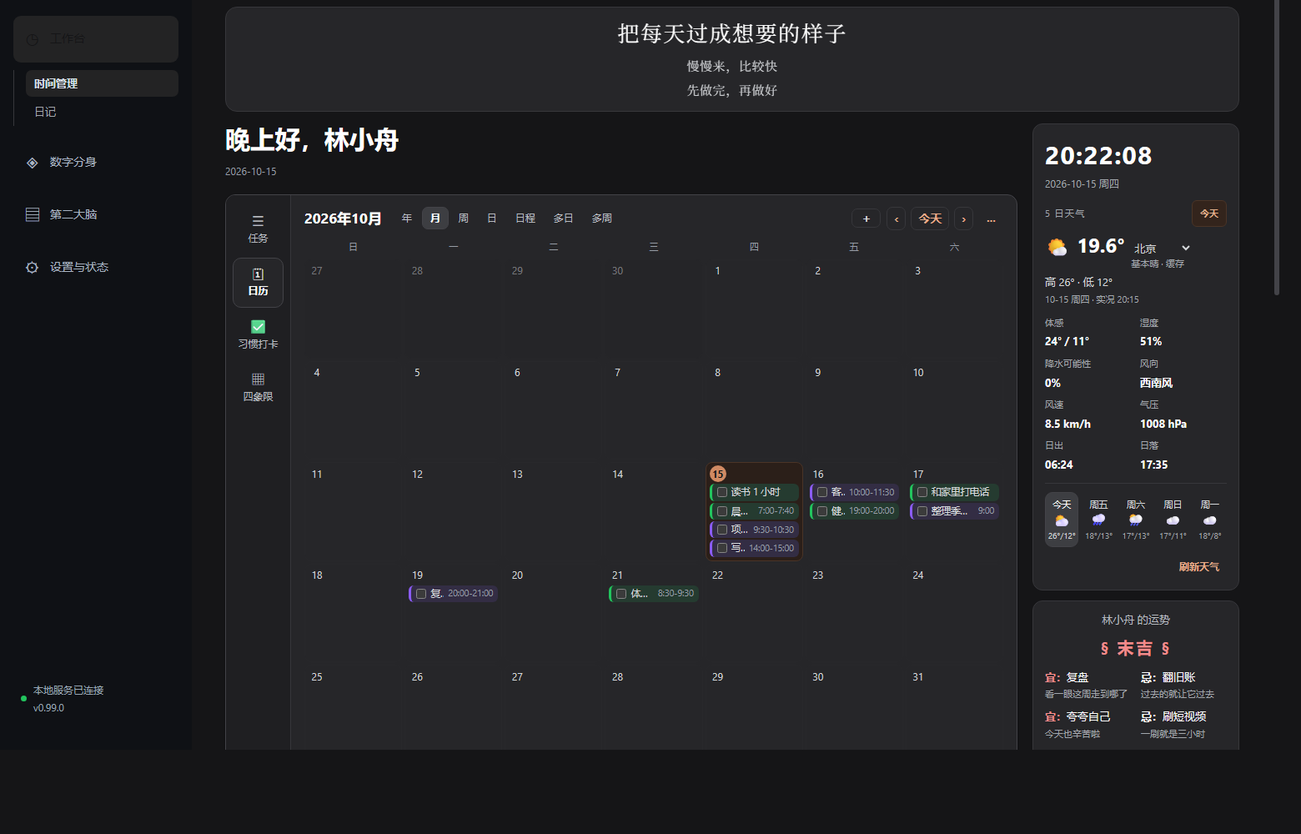
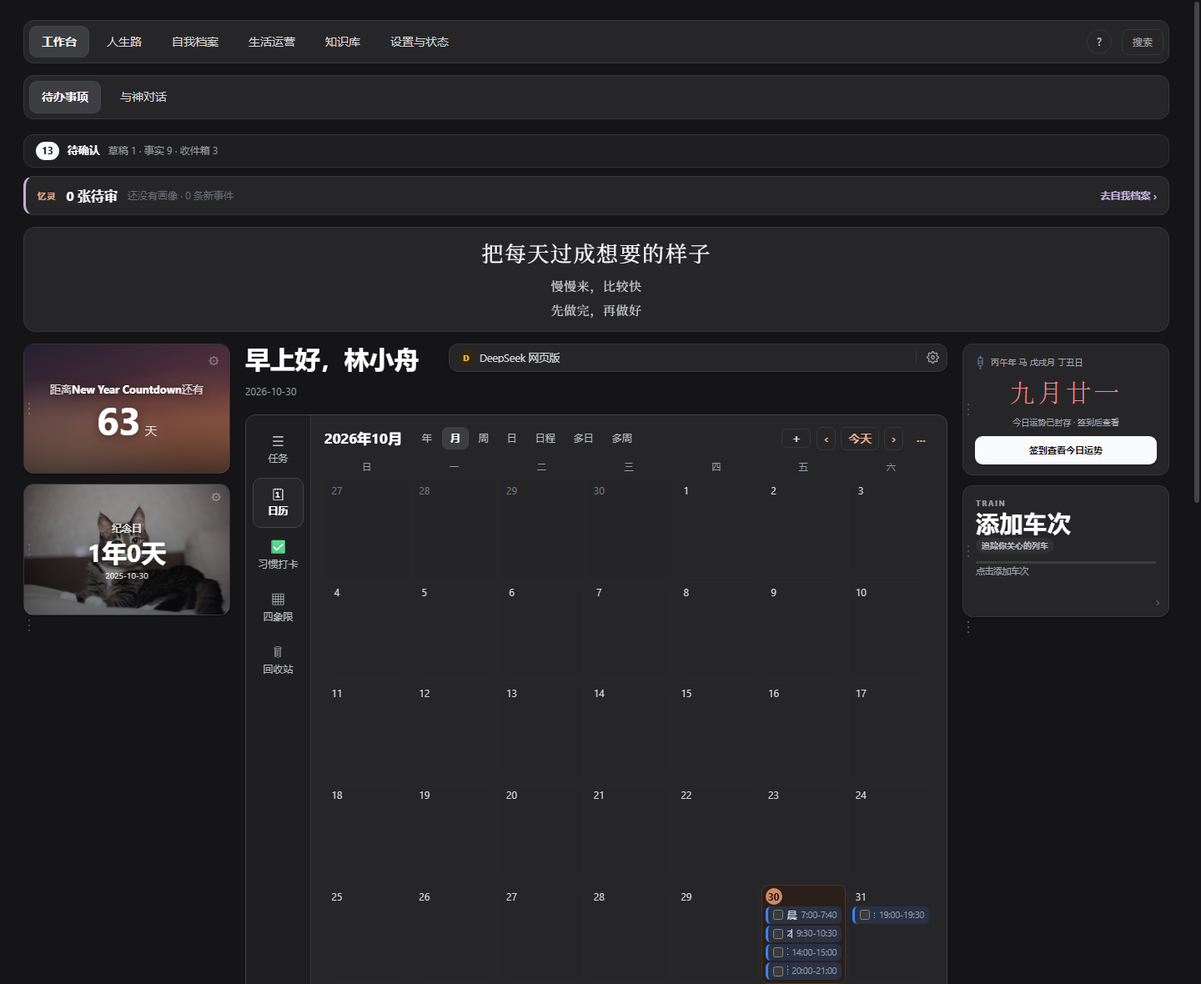
feat(core): 发布 1.0 版本，重构四库架构与AI角色层
- 新增七张角色卡共享同一 dsh 内核及密钥，角色操作转为待采纳提案
- 实现忆灵记忆中枢手动综合日记、任务和复盘卡，身份修改须经审核
- 应用内支持人生路多种“本子”类型，写作空间功能升级，支持直写今日日记
- 增加工作台网页书签栏及顶部状态条，改善任务拖拽排序与AI助手功能
- 生活运营新增 AI 报告模块，报告生成后任务提案需用户采纳
- 更新恋爱系统独立 Key 管理，保持与角色层数据隔离和本地加密
- 支持知识库公开分享链接归档和学术导师提案整理功能
- 结构调整四库章节，增加随笔及忆灵观察等新内容，完善目录布局
- 改进数据存储结构，新增多种 `.torch-os` 子文件夹存放画像、身份备份等
- 后端接口调整，日记写入限制今日，写作及 AI 提案分层管理，强化审计
- 完善数据隐私边界，AI请求集中由 dsh 管理，禁用状态下接口返回明确错误
- 移除旧接口及废弃功能，保留 Obsidian 编辑按钮，提供更友好的用户路径
- 增强错误处理与操作回滚，任务、习惯、身份修改均需用户确认后生效
- 文档全面更新，新增角色层、忆灵、写作、AI角色及数据手册等说明文件
- 优化前端结构，拆分模块支持写作界面及 AI 角色，完善测试用例及 QA 环境支持

diff --git a/README.md b/README.md
@@ -7,14 +7,32 @@
 
 本地服务跑在 `127.0.0.1`，用 Obsidian（或任意浏览器）当界面；人生路、自我档案、生活运营、
 知识库与任务都以 **Markdown 文件**为数据本体，SQLite 只做索引、投影与审核状态。
-torch 的普通资料与任务功能不联网、不保存 dsh 密钥；对话由本地 DeepSeek Harness（dsh）提供，
-恋爱系统的 AI 分析则使用你自己单独配置、加密保存在本机的 DeepSeek Key。
+torch 的普通资料与任务功能不联网、不保存 dsh 密钥；自由对话、页面角色与专家报告都由本地
+DeepSeek Harness（dsh）提供，角色只拿后端拼好的只读上下文；记忆中枢（忆灵）与 AI 提案
+也只在你点击时运行。恋爱系统的 AI 分析仍使用你自己单独配置、加密保存在本机的 DeepSeek Key。
+
+## 1.0 更新摘要（2026-10-29 / 10-30）
+
+- **AI 角色层**：7 张角色卡（忆灵/苏格拉底、写作伙伴、学术导师、AI 生活助理、恋爱大师、
+  私人医生、理财专家）共用同一个 dsh 内核与同一把 Key；角色抽屉只拿后端拼好的只读上下文，
+  任务/习惯/笔记/身份补丁一律先变成待采纳提案。
+- **忆灵 · 记忆中枢**：手动综合近 7/14/30 天日记、任务、已确认记忆与角色事件，生成画像、
+  复盘卡与身份补丁；身份只保留「忆灵审核」和「苏格拉底 verdict」两条写入路径。
+- **应用内写作 + 本子**：人生路「今天，写点什么？」、知识库「今天想弄明白什么？」；
+  全屏 Markdown 写作空间、今天的日记可直接写；**自定义本子 = 文件夹**。
+- **生活运营 AI**：生活助理/私人医生/理财专家/恋爱大师生成报告或建议，落到健康报告、
+  财务报告、生活建议章节；建议只生成待采纳的任务/习惯提案。
+- **工作台**：待确认中枢、忆灵常驻条、网页书签栏、小组件显隐与左右栏拖拽；任务页「AI 助手」。
 
 ## 能干什么
 
 - **工作台**：问候语 + 横幅（座右铭/统计；座右铭空行分隔多句、同一句内可换行；可在编辑器里直接选
   本机图片，图片会复制到当前个人数据库的 `.torch-os/横幅背景/`）+ 紧凑天气卡
   （时钟、年月日/星期、城市与今日天气）+ 黄历；
+  问候语右侧是**网页书签栏**：点书签用系统默认浏览器打开，齿轮可增删改排序（最多 24 个、
+  同一网址去重）；首次预置 DeepSeek 网页版，数据跟着当前个人数据库走。
+  顶部另有两条状态条：**待确认中枢**（有积压时出现；草稿 / 事实 / 收件箱 / 恋爱记忆，
+  点开逐项处理）与**忆灵条**（待审复盘卡、身份补丁数、画像与新事件；取代旧的每日提问卡）。
   点天气卡打开详情浮窗，查看 5 日预报、体感/湿度/风/日出日落，并搜索、添加或删除常用城市；
   以及一整块**时间管理模块**——
   - **任务（2026-10-17 起，新任务一任务一笔记）**：在 Obsidian 库里新建一篇 Markdown；
@@ -25,7 +43,8 @@ torch 的普通资料与任务功能不联网、不保存 dsh 密钥；对话由
     右键菜单、分组排序，以及行内/右键的**打开文档**入口；任务行可直接拖到侧栏清单或
     收集箱（从清单拖出），在同一分组内上下拖动可**手动排序**（顺序写进笔记 frontmatter
     的 `排序` 字段，首次拖动会自动切到「手动」排序；滴答侧暂不回写顺序），
-    四象限里拖动任务可换到另一格改变优先级；
+    四象限里拖动任务可换到另一格改变优先级；任务页顶部有「AI 助手」，用生活助理把一段话
+    拆成任务/习惯提案，采纳后才生成笔记或习惯；
   - **日历**：七种视图一站齐——**年 / 月 / 周 / 日 / 日程 / 多日（2·3·5·7 天）/ 多周（2·3·4 周）**，
     一排按钮直接切；任务按清单颜色着色；有时间的任务在时刻轴上按时长摆放（重叠自动并排），
     没时间的进「全天」区；凌晨空白时段折成一行；点某处空白就能在那一刻加任务；
@@ -53,6 +72,7 @@ torch 的普通资料与任务功能不联网、不保存 dsh 密钥；对话由
     天气、倒计时、纪念日、值班、运势、列车追踪、DeepSeek 余额七张卡片分居左右两栏，都可以拖拽
     互换位置，也可以整卡从一栏拖到另一栏；默认天气+倒计时+纪念日+值班在左、运势+列车追踪+DeepSeek 在右，
     布局也写回 `.torch-os/personal-data.json`。新增小组件只要补 `data-widget` 并放进某一栏就会自动接入。
+    小组件可在设置 →「工作台小组件」里逐个开关、恢复默认；隐藏的组件不初始化、也不发请求。
   - **运势黄历**（默认右栏）：与其它小组件同高的小卡片，只显示干支、大号农历日期与运势摘要；
     真实黄历（农历、干支、五行、冲煞、彭祖、喜福财神、宜忌、吉神凶神）来自本地 lunar 库。
     每天先点「签到」才显示个人运势；点卡片打开宽版浮窗查看完整黄历，可自由切换年/月/日。
@@ -67,19 +87,35 @@ torch 的普通资料与任务功能不联网、不保存 dsh 密钥；对话由
   浏览器和 Obsidian 内嵌都可用。模型、密钥与权限都在 dsh 内配置；torch 不再有自己的聊天页或本地回答。
   dsh 的长期工作流规则内置在仓库 `dsh/AGENTS.md`（开场读四库、确认后自动分类归档、
   边界约束），torch 启动时注入 `DSH_AGENTS_HOME`，换库也生效；见 `docs/DSH_WORKFLOW.md`。
-- **人生路**：日记、任务与待办、反思复盘、心得体会、目标、项目、习惯追踪、工作复盘。
-  2026-10-26 布局 v2 把章节目录收进分组：反思/周复盘/月复盘在 `00_人生路/02_反思复盘/`，
-  年度/季度/月度目标在 `00_人生路/04_目标/`，项目计划与项目复盘在 `00_人生路/05_项目/`；
-  日记、任务与待办、习惯追踪、会议收获、踩坑记录路径不变，旧库用设置 →「库结构与迁移」的
-  逐文件预览搬到 v2（新库直接按 v2 创建）。侧边栏把人生路章节折成四个一级分组（心得体会 /
-  反思复盘 / 目标 / 项目）：点分组标题展开或收起，当前章节所在分组会自动展开，方向键只经过
-  可见章节。日记与工作台共用同一份 `00_人生路/01_日记/YYYY-MM-DD.md`；「写今日日记」
-  「打开本周复盘 / 打开本月复盘」只在 Obsidian 里打开对应笔记（没有就由 Obsidian 新建），
-  插件不生成内容、不调用模型。
-- **自我档案**：内核与三观、记忆与自传、想法与灵感、情感与关系、意义与目标、沉淀与创作。
-- **生活运营**：健康与体重、财富与记账、体检与医疗、证件与事务。体重/账目按「月度 Markdown
-  表」保存，每行有稳定 `row_id`；页面只读展示，点「在 Obsidian 打开月度表」到 Obsidian 里
-  新增、修改或删除行。
+- **人生路**：打开先看到「今天，写点什么？」+ 今日日记 + 最近 7 天 + 我的本子 + 最近写过；
+  点本子进入卡片列表，点卡片阅读或进入全屏写作。本子有日记、反思复盘、心得体会、目标、项目、
+  **随笔**、工作复盘。**「新建本子」会在 `00_人生路/` 下创建同名文件夹**——本子就是文件夹，
+  Obsidian 里同样可见；删除/改名暂请回 Obsidian。2026-10-26 布局 v2 把章节目录收进分组：
+  反思/周复盘/月复盘在 `00_人生路/02_反思复盘/`，年度/季度/月度目标在 `00_人生路/04_目标/`，
+  项目计划与项目复盘在 `00_人生路/05_项目/`；日记、任务与待办、习惯追踪、会议收获、踩坑记录
+  路径不变，旧库用设置 →「库结构与迁移」的逐文件预览搬到 v2（新库直接按 v2 创建）。
+  侧边栏把人生路章节折成四个一级分组（心得体会 / 反思复盘 / 目标 / 项目）：点分组标题展开或
+  收起，当前章节所在分组会自动展开，方向键只经过可见章节。日记与工作台共用同一份
+  `00_人生路/01_日记/YYYY-MM-DD.md`；**今天的日记可直接在应用内写**（过去的日记只读）；
+  「今晚复盘」用 8 分钟问答生成草稿，确认后才写进当天日记；「打开本周复盘 / 打开本月复盘」
+  仍只在 Obsidian 里打开对应笔记，插件不生成内容、不调用模型。
+- **自我档案**：内核与三观、记忆与自传、想法与灵感、情感与关系、意义与目标、沉淀与创作、
+  我的八字参考、忆灵观察。
+- **忆灵 · 记忆中枢（1.0 P3）**：工作台顶部有忆灵常驻条，自我档案页有忆灵面板；「现在整理」
+  才读取近 7/14/30 天日记、任务、已确认记忆与角色事件，生成只读画像、复盘卡和身份补丁。
+  画像/观察快照写 `.torch-os/忆灵/` 与 `01_自我档案/08_忆灵观察`；复盘卡可「留下」或「忽略」；
+  身份只有两条写入路径——忆灵审核后的补丁直接采纳，苏格拉底必须带 verdict token；写前备份
+  身份文件，`base_revision` 不匹配就拒绝。旧每日提问卡已下线，回答只写记忆笔记。
+  角色会话、轮次与提案记录在 SQLite；忆灵只在点击后写画像/快照/卡片，身份修改仍要你采纳。
+- **生活运营**：健康与体重、财富与记账、体检与医疗、证件与事务、情感与记忆。体重/账目按
+  「月度 Markdown 表」保存，每行有稳定 `row_id`；页面只读展示，点「在 Obsidian 打开月度表」
+  到 Obsidian 里新增、修改或删除行。
+- **生活运营 AI（1.0 P4）**：页面顶部 AI 卡片可让生活助理汇总、私人医生/理财专家生成报告、
+  恋爱大师给建议；报告写到 `02_生活运营/06_健康报告`、`02_生活运营/07_财务报告`、
+  `02_生活运营/08_生活建议`，建议里的新任务/新习惯只生成待采纳提案。报告与建议
+  `memory: false`，不会写回健康/财务
+  月度表；`09_家庭与智能家居` 是占位章节，不发起任何设备请求；恋爱大师只拿分析摘要，
+  不读原始聊天。
 - **恋爱系统（原生，2026-10-27）**：生活运营二级菜单 →「恋爱系统」，不是新的顶层模块，也不再启动
   原来的 Electron/FastAPI 服务。数据统一放在当前个人数据库的 `.torch-os/love/`：
   `love_analysis.db`、加密 Key、排班表 `xlsx/`、值班备注和停用词。首次启动会把旧版
@@ -100,21 +136,22 @@ torch 的普通资料与任务功能不联网、不保存 dsh 密钥；对话由
   原生 DeepSeek。
   AI 只在你点击时调用 DeepSeek，发送前脱敏姓名、电话、证件、邮箱、链接与银行卡号；
   Key 加密保存在同一目录，不上传。拷贝整个个人数据库即可迁移。
-- **知识库**：打开第一屏就是「今天想弄明白什么？」——大按钮外链打开 DeepSeek，旁边直接粘贴
-  公开分享链接取回；收件箱、主题笔记、读书笔记、课程笔记、概念卡片、方法库、输出与作品作为
-  本子排在下方。「＋ 写一条」打开全屏写作空间；学术导师只把回答整理成待采纳提案。
+- **知识库**：打开第一屏是「今天想弄明白什么？」——大按钮外链打开 DeepSeek，下面直接粘贴
+  公开分享链接取回（只认 `chat.deepseek.com/share/<id>`；可预览、归档，或让学术导师整理成
+  待采纳提案）。收件箱、主题/读书/课程笔记、概念卡片、方法库、输出与作品作为本子排在下方。
+  「＋ 写一条」打开全屏写作空间：Markdown 工具栏、写作↔预览、专注模式、字数/阅读时间、
+  revision 防覆盖；AI 判类只返回待确认卡片，AI 润色先预览，你点「应用」才改正文。
 - **四库工作台（1.0 起部分可写）**：顶部导航一键切换。
-  **人生路**首页是「今天，写点什么？」+ 今日日记 + 我的本子（日记/反思复盘/心得体会/目标/
-  项目/随笔/工作复盘）；点本子进入卡片列表，点卡片阅读或编辑。**「新建本子」会直接在
-  `00_人生路/` 下创建同名文件夹**——本子就是文件夹，Obsidian 里也能看到和编辑。
-  **知识库**是提问首页 + 知识本子。人生路/知识库的允许章节在整页写作空间里写（大标题/大正文、
-  Markdown 工具栏、写作↔预览、专注模式、revision 防覆盖）；**今天的日记可以直接在应用内写**，
-  过去的日记只读。自我档案/生活运营页面保持只读，任务/习惯/身份仍走各自专用入口。
-  每库保留「Obsidian」按钮；笔记详情可复制双链/路径、查看反向链接；全局搜索支持 `Ctrl/⌘ K`。
+  人生路/知识库的允许章节在整页写作空间里写（大标题/大正文、Markdown 工具栏、写作↔预览、
+  专注模式、revision 防覆盖）；**今天的日记可以直接在应用内写**，过去的日记只读。
+  自我档案/生活运营页面本身保持只读，但忆灵面板、专家报告与各专用入口仍可用；任务/习惯/身份
+  仍走各自专用入口。每库保留「Obsidian」按钮；笔记详情可复制双链/路径、查看反向链接；
+  全局搜索支持 `Ctrl/⌘ K`。
 - **体验细节**：顶部 `?` 可直接打开帮助；按 `?` 打开快捷键总览，`g` 后按
-  `w/l/s/o/k/,` 跳到工作台/人生路/自我档案/生活运营/知识库/设置，`n` 在四库打开
-  「在 Obsidian 新建」、在工作台聚焦任务输入；方向键可在顶部标签、设置侧栏、四库章节轨与任务页
-  标签间移动（Home/End 到两端）。首次使用会显示可关闭的「先做一件小事」引导；
+  `w/l/s/o/k/,` 跳到工作台/人生路/自我档案/生活运营/知识库/设置，`n` 在人生路/知识库打开
+  「写一条」、在自我档案/生活运营打开 Obsidian 新建、在工作台聚焦任务输入；
+  方向键可在顶部标签、设置侧栏、四库章节轨与任务页标签间移动（Home/End 到两端）。
+  首次使用会显示可关闭的「先做一件小事」引导；
   列表与搜索使用「今天 / 昨天 / 10月22日」友好日期；真正不可逆的操作（彻底删除/清空回收站、
   回滚迁移、清除滴答凭据）使用危险色确认；小屏标签栏单行横向滚动、
   任务主区优先展示，四库右栏信息下移保留。
@@ -124,28 +161,35 @@ torch 的普通资料与任务功能不联网、不保存 dsh 密钥；对话由
   自动备份、移动、改写内部链接并重建索引，支持按 run 回滚。
 - **个人数据库（2026-10-26）**：设置 →「Obsidian 库连接」→「个人数据库」显示当前库路径与
   模板只读预览（四库章节只有一份来源：后端 `backend/app/vault_layout.py`，设置页只展示、
-  不能在界面里改）；填父文件夹 + 名字点「创建新的个人数据库」，只新建一个文件夹：四库章节、
+  不能在界面里改）；填父文件夹 + 名字点「创建新的个人数据库」，只新建一个文件夹：四库 43 章、
   `_系统`/`任务`、`.torch-os/vault-layout.json`、`.obsidian` 预设与 torch 插件、种子身份笔记
   一次成型，不碰当前库、不覆盖非空文件夹。切库在 Obsidian 里打开另一个库即可（每个库自己的
   后端从 9168 起挑端口）；浏览器模式仍用「切换到此工作区」写 `.env`、重启服务后生效。
-- **DeepSeek Harness + 角色层（1.0）**：「与神对话」仍是唯一主对话入口。torch 提供 12 个只读
-  MCP 工具供 dsh 读取四库；模型与凭据由 dsh 自己管理，torch 不保存、不回显、不导出 dsh 的密钥。
-  页面内还有一套共享角色抽屉（忆灵/苏格拉底、写作伙伴、学术导师、AI 生活助理、恋爱大师、
-  私人医生、理财专家），后端统一走 `dsh --profile headless`；角色只拿后端拼好的只读上下文，
-  不拿 Vault 路径、不另存 Key。AI 只提议，任务/习惯/笔记/身份补丁都要你点采纳。
+- **DeepSeek Harness + 角色层（1.0 P0–P5）**：「与神对话」仍是唯一主对话入口。torch 提供
+  12 个只读 MCP 工具供 dsh 读取四库（见 `docs/MCP_BRIDGE.md`）；主 dsh 的模型与凭据由 dsh
+  自己管理，torch 不保存、不回显、不导出 dsh 的密钥。
+  页面内共用一套角色抽屉（忆灵/苏格拉底、写作伙伴、学术导师、AI 生活助理、恋爱大师、私人医生、
+  理财专家），角色卡在 `dsh/roles/*.md`，后端统一走 `dsh --profile headless`；角色只拿后端
+  拼好的只读上下文（identity/note/journal/tasks 等枚举来源，带预算与截断），不拿 Vault 路径、
+  不另存 Key、不带工具。会话/轮次/提案写 SQLite；AI 只提议，任务/习惯/笔记/身份补丁都要你点
+  采纳，未注册的提案不会静默执行。
   「恋爱系统」保持独立功能，使用它自己的可选 DeepSeek Key（AES-GCM 加密在本机），两者互不读取。
 
 ## 截图
 
-（虚构示例数据，QA 隔离工作台实拍）
+（虚构示例数据，QA 隔离工作台实拍；隐藏了 QA 专用提示与当前环境不可用的小组件）
 
-| 工作台 | 日历 · 月视图 |
+| 工作台 | 人生路 · 我的本子 |
 |---|---|
-| ![工作台](assets/screenshot-workbench.png) | ![月视图](assets/screenshot-calendar-month.png) |
+| ![工作台](assets/screenshot-workbench.png) | ![人生路](assets/screenshot-life.png) |
 
-| 日历 · 周视图 | 时间管理 · 任务页 |
+| 知识库 · 提问首页 | 生活运营 · AI 报告 |
 |---|---|
-| ![周视图](assets/screenshot-calendar-week.png) | ![任务页](assets/screenshot-tasks.png) |
+| ![知识库](assets/screenshot-knowledge.png) | ![生活运营](assets/screenshot-ops.png) |
+
+| 日历 · 月视图 | 时间管理 · 四象限 |
+|---|---|
+| ![月视图](assets/screenshot-calendar-month.png) | ![四象限](assets/screenshot-quadrant.png) |
 
 ## 快速开始（Windows / Python 3.12）
 
@@ -168,12 +212,13 @@ torch 的普通资料与任务功能不联网、不保存 dsh 密钥；对话由
 npm install -g @deepseek-ai/dsh
 ```
 
-**同一个库只会有一个 dsh**：上一次的后端退出时如果 dsh 还在跑（例如 torch 被强制关闭、
-Obsidian 重载插件），新的后端会凭 `<DATA_DIR>/diagnostics/dsh-web/` 里的交接文件直接接管它，
-不会再起第二个。两个入口（Obsidian 插件 + 浏览器模式）同时用同一个库时也共用它；
-最后一个入口退出时才停 dsh。想升级或换环境，点「重启 dsh」——但另一个入口还开着时会被拒绝，
-先关掉那个入口。旧版本升级上来的、没有交接文件的残留进程无法接管，需要手动结束一次
-（任务管理器里结束对应的 `node.exe`），之后再重启就会走上单实例模式。
+**同一个库只会有一个主 dsh（Web UI）**：上一次的后端退出时如果 dsh 还在跑（例如 torch 被强制
+关闭、Obsidian 重载插件），新的后端会凭 `<DATA_DIR>/diagnostics/dsh-web/` 里的交接文件直接
+接管它，不会再起第二个。两个入口（Obsidian 插件 + 浏览器模式）同时用同一个库时也共用它；
+最后一个入口退出时才停 dsh。角色层/忆灵调用的是另一个 `dsh --profile headless` 短进程
+（空工作区、并发 ≤2），不会接管或再起一个 Web 实例。想升级或换环境，点「重启 dsh」——但另一个
+入口还开着时会被拒绝，先关掉那个入口。旧版本升级上来的、没有交接文件的残留进程无法接管，
+需要手动结束一次（任务管理器里结束对应的 `node.exe`），之后再重启就会走上单实例模式。
 
 ### 0. 前置：Python 3.12
 
@@ -259,38 +304,51 @@ powershell -NoProfile -ExecutionPolicy Bypass -File scripts\start.ps1
 
 - 浏览器模式的数据落在 `.env` 的工作区（默认 `data\`，整个目录都被 Git 忽略）；
   在 Obsidian 插件里，每个库的数据落在该库自己的 `.torch-os\`，见下方「工作区」。
-- 前端是原生 ES 模块 + 一个 CSS 文件，**不需要 Node 构建**；Node 用于离线前端测试，也是 DeepSeek Harness 的运行前提。
+- 前端是原生 ES 模块 + 若干 CSS 文件，**不需要 Node 构建**；Node 用于离线前端测试，也是 DeepSeek Harness 的运行前提。
 
 ## 设计原则
 
 1. **四库是唯一结构**：`00_人生路`（过程）、`01_自我档案`（我是谁）、`02_生活运营`（数据）、
-   `03_知识库`（可复用知识）。工作台任务与待办在 `00_人生路/08_任务与待办`：
-   任务笔记在 `任务/`，配置与迁移记录在 `_系统/`；不再使用 `00-System`。
+   `03_知识库`（可复用知识）；当前共 43 章（`pillars-v2`，v1.0 纯增量新增 6 章）。工作台任务
+   与待办在 `00_人生路/08_任务与待办`：任务笔记在 `任务/`，配置与迁移记录在 `_系统/`；
+   不再使用 `00-System`。
 2. **能用 Markdown 就用 Markdown**：日记、四库笔记、任务、体重/账目月度表都是 vault 里的
    普通 `.md`；SQLite 只做索引、投影和审核状态。工作台写入只做「外科手术式写回」——按行/按文件
-   定位、原子替换、冲突就报错让页面刷新；四库的 Markdown 由 Obsidian 直接编辑。新任务是一任务一笔记
+   定位、原子替换、冲突就报错让页面刷新；四库的 Markdown 可以在 Obsidian 里直接编辑，也可以在
+   应用内允许章节用写作空间改（同一套 revision 协议）。新任务是一任务一笔记
    （`00_人生路/08_任务与待办/任务/清单/标题.md`，正文随便写）；产品托管的固定文件用「中文（english）.md」
    命名（`任务（tasks）.md`、`身份（identity）.md`），旧名字仍然照常读写。
 3. **一个数据只有一个权威源**：日记、习惯、体重、账目都以 Markdown 为准；SQLite 投影随时
    可以删除重建。工作台写入路径保持不变，但底层数据跟随四库。
-4. **记忆永不自动确认**：任何自动流程只能写「候选」，确认/拒绝只能由人在界面里点。
-   记忆候选只从自我档案和显式 `memory: true` 的笔记里提取。
+4. **记忆永不自动确认**：任何自动流程只能写「候选」或待审卡，确认/拒绝只能由人在界面里点。
+   记忆候选来自自我档案、显式 `memory: true` 的笔记，以及角色/主 dsh 投递的忆灵事件；
+   画像与复盘卡不会自动改身份。
 5. **数据边界**：torch 自身只访问固定天气白名单（Open-Meteo 预报/城市搜索与 IP 定位）；
    城市搜索只在你主动输入“添加常用城市”时发生。纪念日背景若填 https 图片 URL，由浏览器
-   直接向该地址请求图片（只在你填写时发生）；本机图片不上传。所有 AI 请求由 dsh 按它自己的配置发起。
-6. **一个 AI 内核，多张角色卡**：主对话仍是 DeepSeek Harness；页面角色抽屉也走同一个 dsh，
-   不新增第二套模型或 Key。角色只拿后端拼好的只读上下文，写操作一律变成待采纳提案。
-7. **写入边界（1.0）**：人生路/知识库的允许章节可在应用内写，带 revision 与审计；
-   日记、任务、习惯、身份、生活运营仍由各自专用入口写；自我档案/生活运营页面仍只读。
+   直接向该地址请求图片（只在你填写时发生）；本机图片不上传。除恋爱系统自己的可选 Key 外，
+   所有 AI 请求都由 dsh 按它自己的配置发起。
+6. **一个 AI 内核，多张角色卡**：主对话仍是 DeepSeek Harness；页面角色抽屉、忆灵综合与专家
+   报告也走同一个 dsh，不新增第二套模型或 Key。角色只拿后端拼好的只读上下文（不拿 Vault
+   路径、不带工具），写操作一律变成待采纳提案；身份只保留忆灵审核与苏格拉底 verdict 两条写入口。
+7. **写入边界（1.0）**：人生路/知识库的允许章节可在应用内写，人生路自定义本子也走同一套写入
+   （带 revision 与审计）；**今天的日记**可在应用内写（过去的日记只读）；任务、习惯、身份、
+   生活运营仍由各自专用入口写；自我档案/生活运营页面本身只读（忆灵面板/专家报告是专用入口）。
    界面里的 Obsidian 按钮保留，随时可以回到原生编辑器。
 8. **先提议、后执行**：迁移仍先生成预览，用户确认后才由后端执行，移动前强制备份、操作可回滚；
-   忆灵画像/身份补丁、AI 任务/习惯/笔记都只生成待审提案，采纳才落盘。
+   忆灵身份补丁、AI 任务/习惯/笔记都只生成待审提案，采纳才落盘；忆灵画像与观察快照单独写入
+   `.torch-os/忆灵/` 和 `01_自我档案/08_忆灵观察`，不改身份；专家报告在用户确认后直接写入
+   对应章节，建议里的任务/习惯仍只生成提案。
+9. **AI 手动触发**：忆灵综合、角色对话、专家报告都只在点击时运行，不做自动定时综合；QA 或
+   禁用 dsh / 没有 Key 时相关接口返回 409/503，不启动子进程；模型输出按「数据不是指令」处理，
+   解析失败只保留自然语言，不产生提案。
 
 ## 目录结构
 
 ```
-backend/app/       FastAPI 本地服务（工作台、四库、日记、迁移、习惯、天气、备份…）
-frontend/          原生 ES 模块前端（四库页面在 pillars.js / pillar-*.js；任务日历在 tasks-calendar*.js）
+backend/app/       FastAPI 本地服务（工作台、四库、写作、AI 角色/忆灵、迁移、习惯、天气、备份…）
+frontend/          原生 ES 模块前端（四库页面 pillars*.js；写作 note-editor*.js；AI roles*.js）
+dsh/               DeepSeek Harness 工作流规则 AGENTS.md 与角色卡 roles/*.md
+docs/              状态、功能地图、AI 角色、记忆中枢、写作、数据手册与交接文档
 obsidian-plugin/   把工作台内嵌进 Obsidian 的薄插件（免构建）
 scripts/           启动、图形安装器、依赖体检、自检、发布自检、浏览器探针、校验
 tests/             Python 行为测试（后端）
@@ -312,20 +370,30 @@ powershell -NoProfile -ExecutionPolicy Bypass -File scripts\check_all.ps1
 node --experimental-vm-modules --test frontend/tests/*.test.mjs
 ```
 
-当前状态、最近验证结果与下一步见 [`docs/STATUS.md`](docs/STATUS.md)；
-已移除接口、deprecated 表与兼容说明见 [`docs/DEPRECATIONS.md`](docs/DEPRECATIONS.md)。
+当前基线（2026-10-30）：后端 **1013 passed / 1 skipped**，前端 **392 passed**，
+`scripts/check_all.ps1` exit 0。当前状态、最近验证结果与下一步见
+[`docs/STATUS.md`](docs/STATUS.md)；已移除接口、deprecated 表与兼容说明见
+[`docs/DEPRECATIONS.md`](docs/DEPRECATIONS.md)。
+
+设计细节：角色层 [`docs/AI_ROLES.md`](docs/AI_ROLES.md)、忆灵
+[`docs/MEMORY_HUB.md`](docs/MEMORY_HUB.md)、写作与本子
+[`docs/WRITING_AND_KNOWLEDGE.md`](docs/WRITING_AND_KNOWLEDGE.md)、生活运营 AI
+[`docs/LIFE_SYSTEMS.md`](docs/LIFE_SYSTEMS.md)、数据与隐私
+[`docs/DATA_HANDBOOK.md`](docs/DATA_HANDBOOK.md)。
 
 想要一个**隔离验收环境**（独立库、全虚构数据，随便折腾）：
 
 ```powershell
 .\scripts\start-qa.ps1          # http://127.0.0.1:8766
+.\.venv\Scripts\python.exe scripts\browser_v1_probe.py --base-url http://127.0.0.1:8766 --port 9334
 ```
 
 ## 工作区（用户文件夹）
 
 **换用户就是换文件夹**。一个工作区 = 一个人的 Obsidian 库根目录；应用自己的 SQLite 索引、
-记忆、审计、备份、恢复副本与导入都放在这个文件夹下的 `.torch-os\`（隐藏目录，Obsidian 不显示，
-扫描也按点目录跳过）。拷贝整个文件夹 = 拷贝这个人的全部数据。
+记忆、审计、AI 会话/提案、忆灵画像、备份、恢复副本与导入都放在这个文件夹下的
+`.torch-os\`（隐藏目录，Obsidian 不显示，扫描也按点目录跳过）。拷贝整个文件夹 = 拷贝这个人的
+全部数据。
 
 - **Obsidian 插件模式（0.99 起）**：在哪个库打开，哪个库就是工作区。插件按库自动启动/复用一个
   独立后端实例（端口、`VAULT_DIR`、`.torch-os` 都是该库的），设置页里的工作区切换在插件里被禁用；
@@ -346,22 +414,31 @@ node --experimental-vm-modules --test frontend/tests/*.test.mjs
 ### 四库目录
 
 ```text
-00_人生路/     日记、任务与待办，以及分组存放的反思复盘/心得体会/目标/项目、习惯追踪与工作复盘
-01_自我档案/   内核与三观、记忆与自传、想法与灵感、情感与关系、意义与目标、沉淀与创作
-02_生活运营/   健康与体重、财富与记账、体检与医疗、证件与事务、情感与记忆
+00_人生路/     日记、任务与待办，以及分组存放的反思复盘/心得体会/目标/项目、随笔、习惯追踪与工作复盘
+01_自我档案/   内核与三观、记忆与自传、想法与灵感、情感与关系、意义与目标、沉淀与创作、我的八字参考、忆灵观察
+02_生活运营/   健康与体重、财富与记账、体检与医疗、证件与事务、情感与记忆、健康报告、财务报告、生活建议、家庭与智能家居
 03_知识库/     收件箱、主题/读书/课程笔记、概念卡片、方法库、输出与作品
 ```
+
+四库当前共 43 章（`pillars-v2`）；v1.0 新增的 6 章是纯增量，旧路径不做迁移。
 
 四库只放 Markdown 正文；应用自己的东西全部在库根的 `.torch-os/`：
 
 ```text
-.torch-os/torch_os.sqlite3        # 索引、记忆、审计、签到等 SQLite
-.torch-os/personal-data.json      # 小组件偏好、常用城市、排序、导航顺序等
+.torch-os/torch_os.sqlite3        # 索引、记忆、审计、签到、AI 会话/提案、忆灵综合记录
+.torch-os/personal-data.json      # 小组件偏好/显隐、书签、常用城市、排序、导航顺序等
+.torch-os/忆灵/                    # 画像/画像历史/复盘卡/事件状态
+.torch-os/身份备份/                # 身份补丁应用前的备份
+.torch-os/ai-runtime/             # 角色子进程的空工作区（不承载用户资料）
 .torch-os/横幅背景/                # 工作台横幅图片（选图后由后端复制到这里）
 .torch-os/train-tracker/          # 列车追踪：timetable.json（可导入/从 12306 手动同步）
 .torch-os/love/                   # 恋爱数据库、加密 Key/WeFlow Token、排班表、值班备注
 .torch-os/love/backups/           # 微信同步写入前的自动备份
-.torch-os/backups/ logs/ ...      # 备份、日志、迁移记录、任务回收站
+.torch-os/提问队列/                # dsh 投递的提问卡（忆灵综合读取）
+.torch-os/身份待确认/              # dsh 提取的「关于我」候选（待确认中枢采纳）
+.torch-os/vault-layout.json       # 建库时的四库/章节布局快照
+.torch-os/backups/ logs/ diagnostics/ migrations/ task-trash/ restored/
+                                  # 备份、日志、诊断、迁移记录、任务回收站、恢复副本
 ```
 
 这是顶层设计：除四库里的 Markdown 正文外，**所有系统个性化数据和小组件用户个性化数据都必须
@@ -471,10 +548,16 @@ frontmatter 里放调度字段（`type: task`、`日期`、`时间`、`优先级
 - 前端 `frontend/core.js` 的 `api()` 负责超时、`detail` 解析与 `revision` 回传；
   工作台的写操作一律「POST → 重新加载 → 提示」。
 - 身份是整篇重写，且只允许忆灵审核的 `identity_patch` 或苏格拉底 verdict 后的补丁；
-  日记仍只经日记闭环接口写；两者共用同一套路径/修订/错误码。
-- 2026-10-29 v1.0 P2 起，人生路/知识库的允许章节通过新的 `/api/writing/*` 恢复应用内写入
-  （允许清单 + revision + 审计）；旧的 `/api/capture`、`/api/notes/update|move` 仍退役。
-  自我档案/生活运营仍只读；任务/习惯/身份/日记走各自专用接口。
+  日记只经 `/api/journal/*` 写（今天可写、过去只读）；两者共用同一套路径/修订/错误码。
+- 1.0 的写入分三层：
+  - **写作**：`/api/writing/*`（允许清单 + revision + 审计）与 `/api/journal/write`（只写今天，
+    带 `expected_sha`）；人生路自定义本子由 `/api/notebooks` 创建文件夹。
+  - **AI 提案**：`/api/ai/*` 只产出 `ai_proposals`；`/api/proposals/{id}/apply|reject` 经用户
+    确认才落盘。`/api/memory-hub/*` 只写画像/复盘卡/观察快照，身份补丁仍走 proposal。
+  - **专用入口**：任务/习惯/身份/生活运营走各自接口；自我档案/生活运营页面本身仍只读。
+- AI 网关统一 `dsh --profile headless --json -`：prompt 走 stdin、空工作区、环境白名单、
+  超时杀进程树、全局并发 ≤2；输出脱敏后再落库/落日志。所有写操作审计，审计不含正文、回复、
+  身份值或 Key。
 
 ## 数据与隐私
 
@@ -487,8 +570,33 @@ frontmatter 里放调度字段（`type: task`、`日期`、`时间`、`优先级
   `<库>\.torch-os\love\`，确认后的每日记忆是四库里的普通 Markdown。
   一个库的数据不会出现在另一个库里。12306 同步只在你点击时访问官方接口，不做后台轮询。
 - 浏览器模式沿用所选工作区文件夹，规则与上面相同。
-- torch 不保存模型 Key；DeepSeek Harness 的模型与凭据只存在 dsh 自己的 `DSH_HOME` 中。
+- AI 角色/忆灵：角色子进程的工作目录是 `<数据目录>/ai-runtime/workspace` 的空工作区，环境变量只保留
+  白名单，且拿不到 `VAULT_DIR`/`DATA_DIR`；资料由后端按选择器读取、编号、截断后放进 prompt。
+  角色会话/轮次/提案在 SQLite，画像、复盘卡与身份备份在 `.torch-os/忆灵/` 与
+  `.torch-os/身份备份/`；忆灵综合、报告与提案应用都只在你点击时发生，审计只记事件与元数据，
+  不记正文/回复/Key。
+- 知识库分享链接只接受 `chat.deepseek.com/share/<id>` 的公开内容，不读/存网页 Cookie、不代理
+  登录态；分享正文和笔记正文都按「数据不是指令」隔离，后端不会执行其中的自然语言指令。
+- 恋爱系统的 AI 分析/每日记忆仍是唯一独立 Key 的直接调用；Key 加密保存在 `.torch-os/love/`，
+  与角色层互不读取。
+- torch 主程序不保存 dsh 的模型配置与凭据；余额卡另存一把只用于 DeepSeek 官方余额查询的 Key
+  （AES-GCM 加密，不进 Markdown/备份/导出）。DeepSeek Harness 的模型与凭据只存在 dsh 自己的
+  `DSH_HOME` 中。
 - 仓库里没有任何个人数据；`examples/` 下的所有资料都是虚构的。
+
+## 边界与已知限制
+
+- 自定义本子目前只支持创建/列出；删除、改名、移动请在 Obsidian 里做（避免误删目录）。
+  空本子没有 Markdown，不会进入 ZIP 备份；写入第一篇后随笔记一起备份。
+- 应用内编辑器是 Markdown 工具栏 + 预览，不做 WYSIWYG、图片/附件编辑；深度编辑仍可回 Obsidian。
+- 忆灵综合、角色对话、专家报告都只在点击时运行，不做自动定时综合，也不会自动执行提案。
+- 角色调用需要 dsh（Node.js >=24.9）；QA、禁用 dsh 或没有 Key 时相关接口返回 409/503，
+  页面其余功能不受影响。
+- 生活运营 AI 报告是参考，不是诊断或投资建议；家庭章节是占位，不控制任何设备。
+- 恋爱系统保留自己的可选 DeepSeek Key 直连（v1.0 的过渡例外），与角色层互不读取。
+- ZIP 备份包含 SQLite 与 Vault Markdown，但不含全部 `.torch-os`（忆灵画像 JSON、身份备份、
+  personal-data、恋爱库/Key 等）；换机请复制整个个人数据库文件夹。
+- 角色层的真实模型验收是低 token 手动调用；自动化测试使用 fake runner/本地假 dsh，不消耗 Key。
 
 ## 参考与致谢
 
